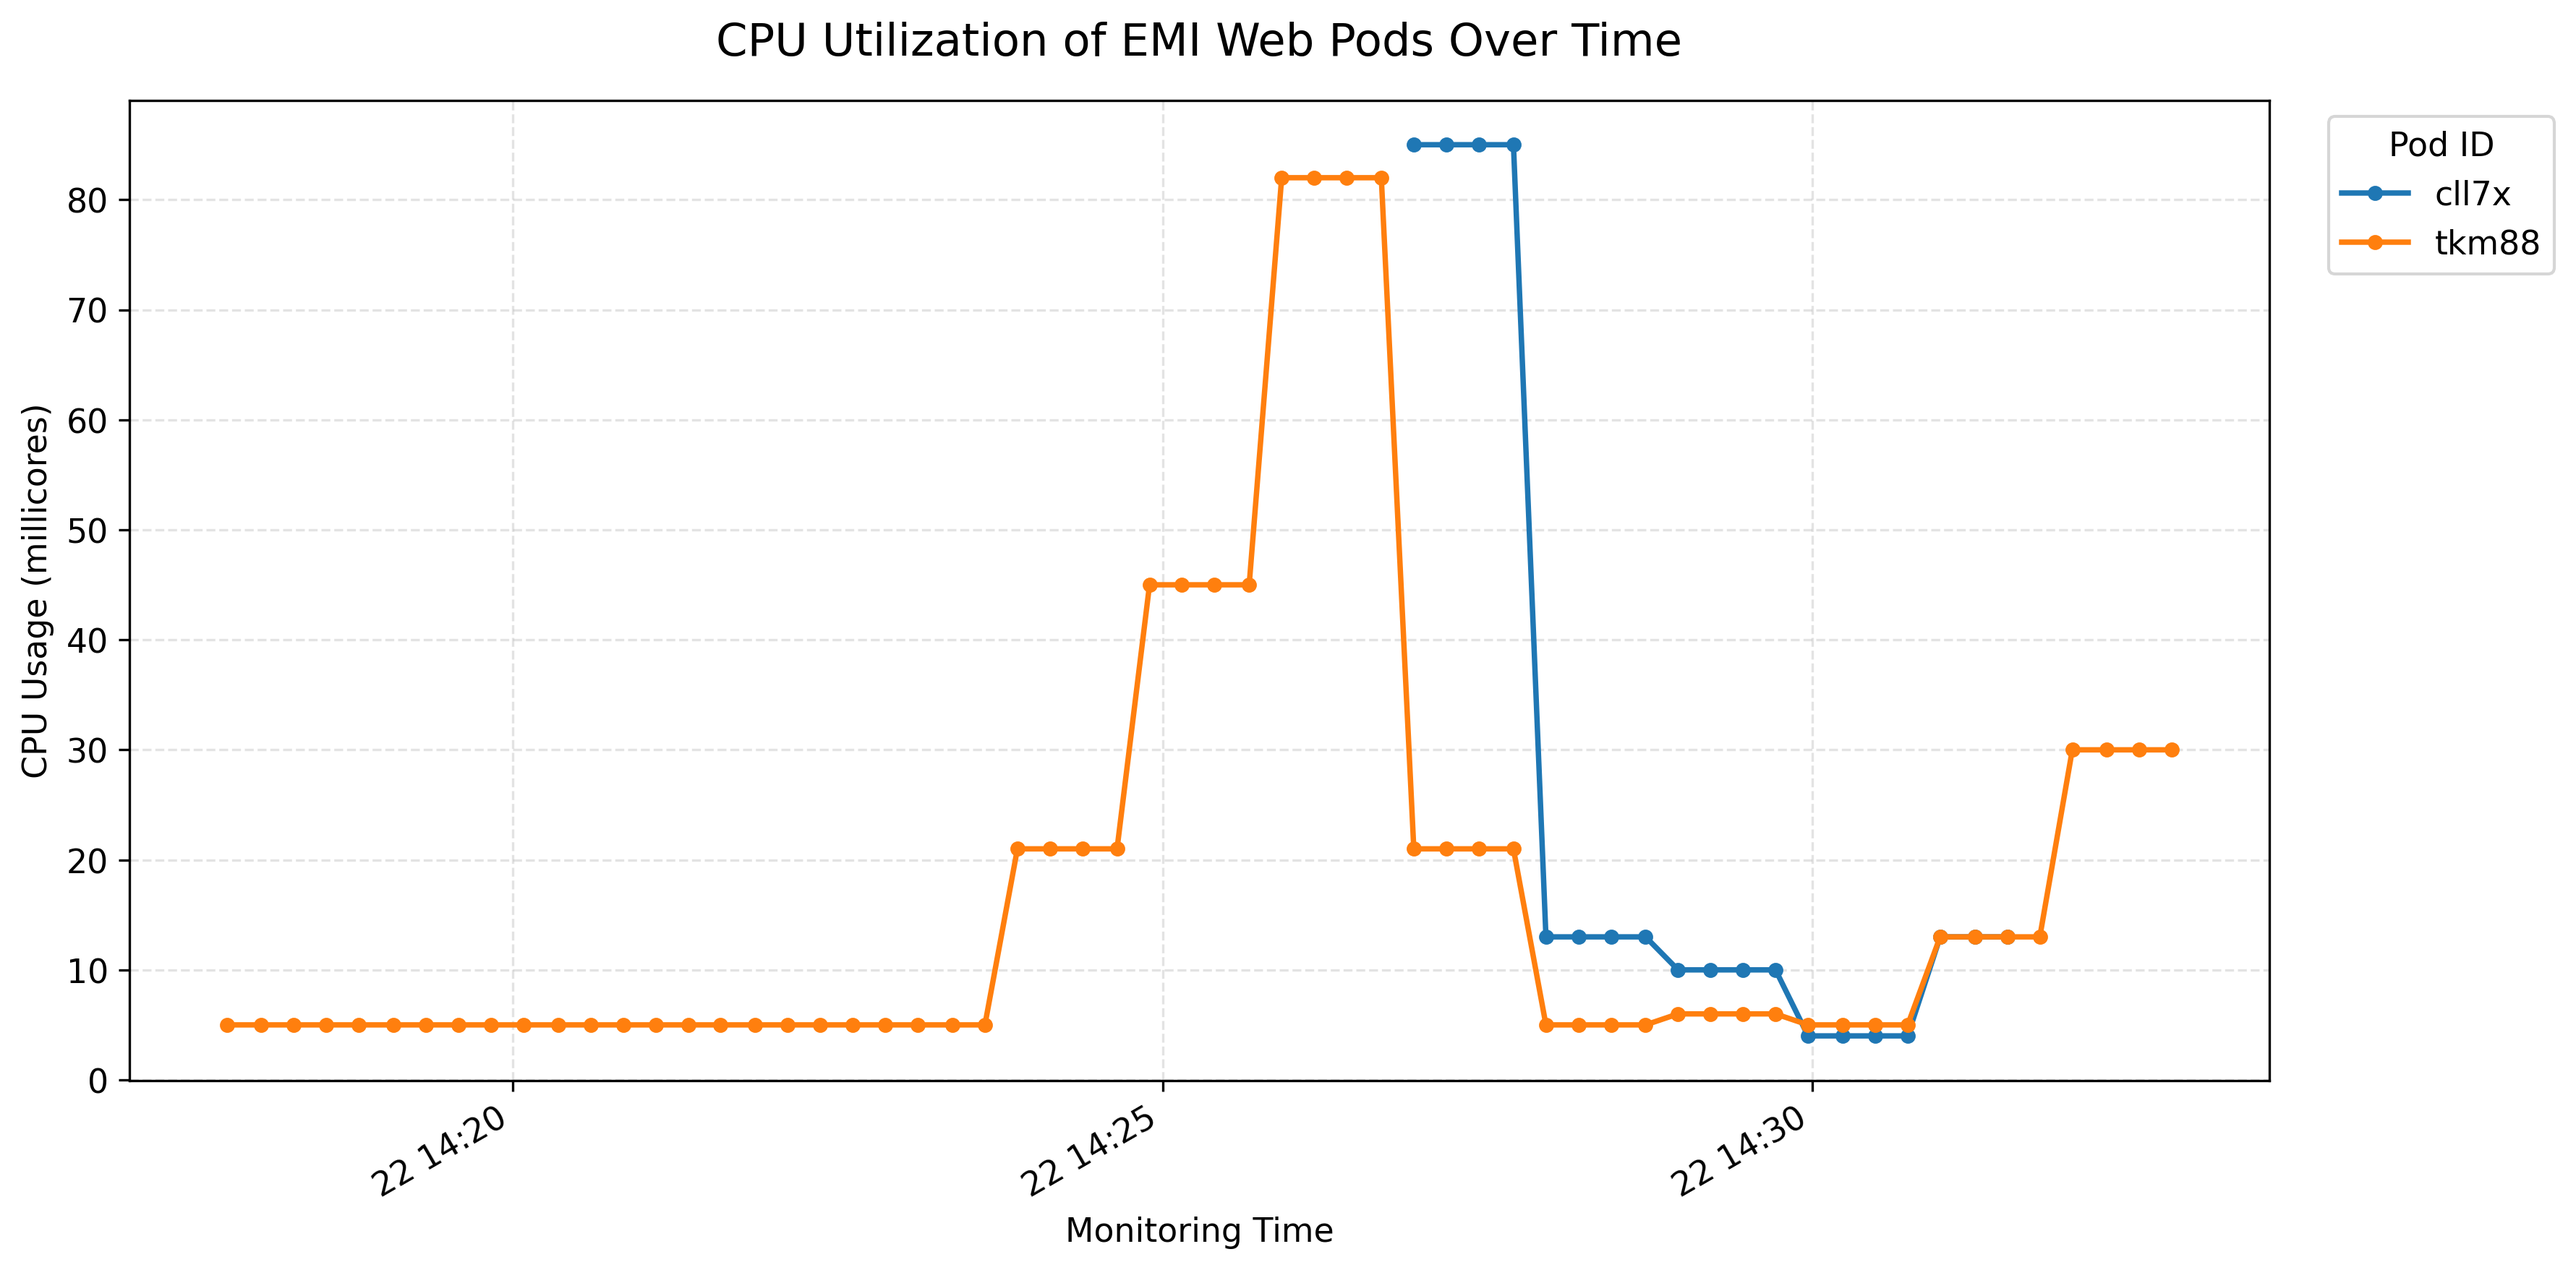
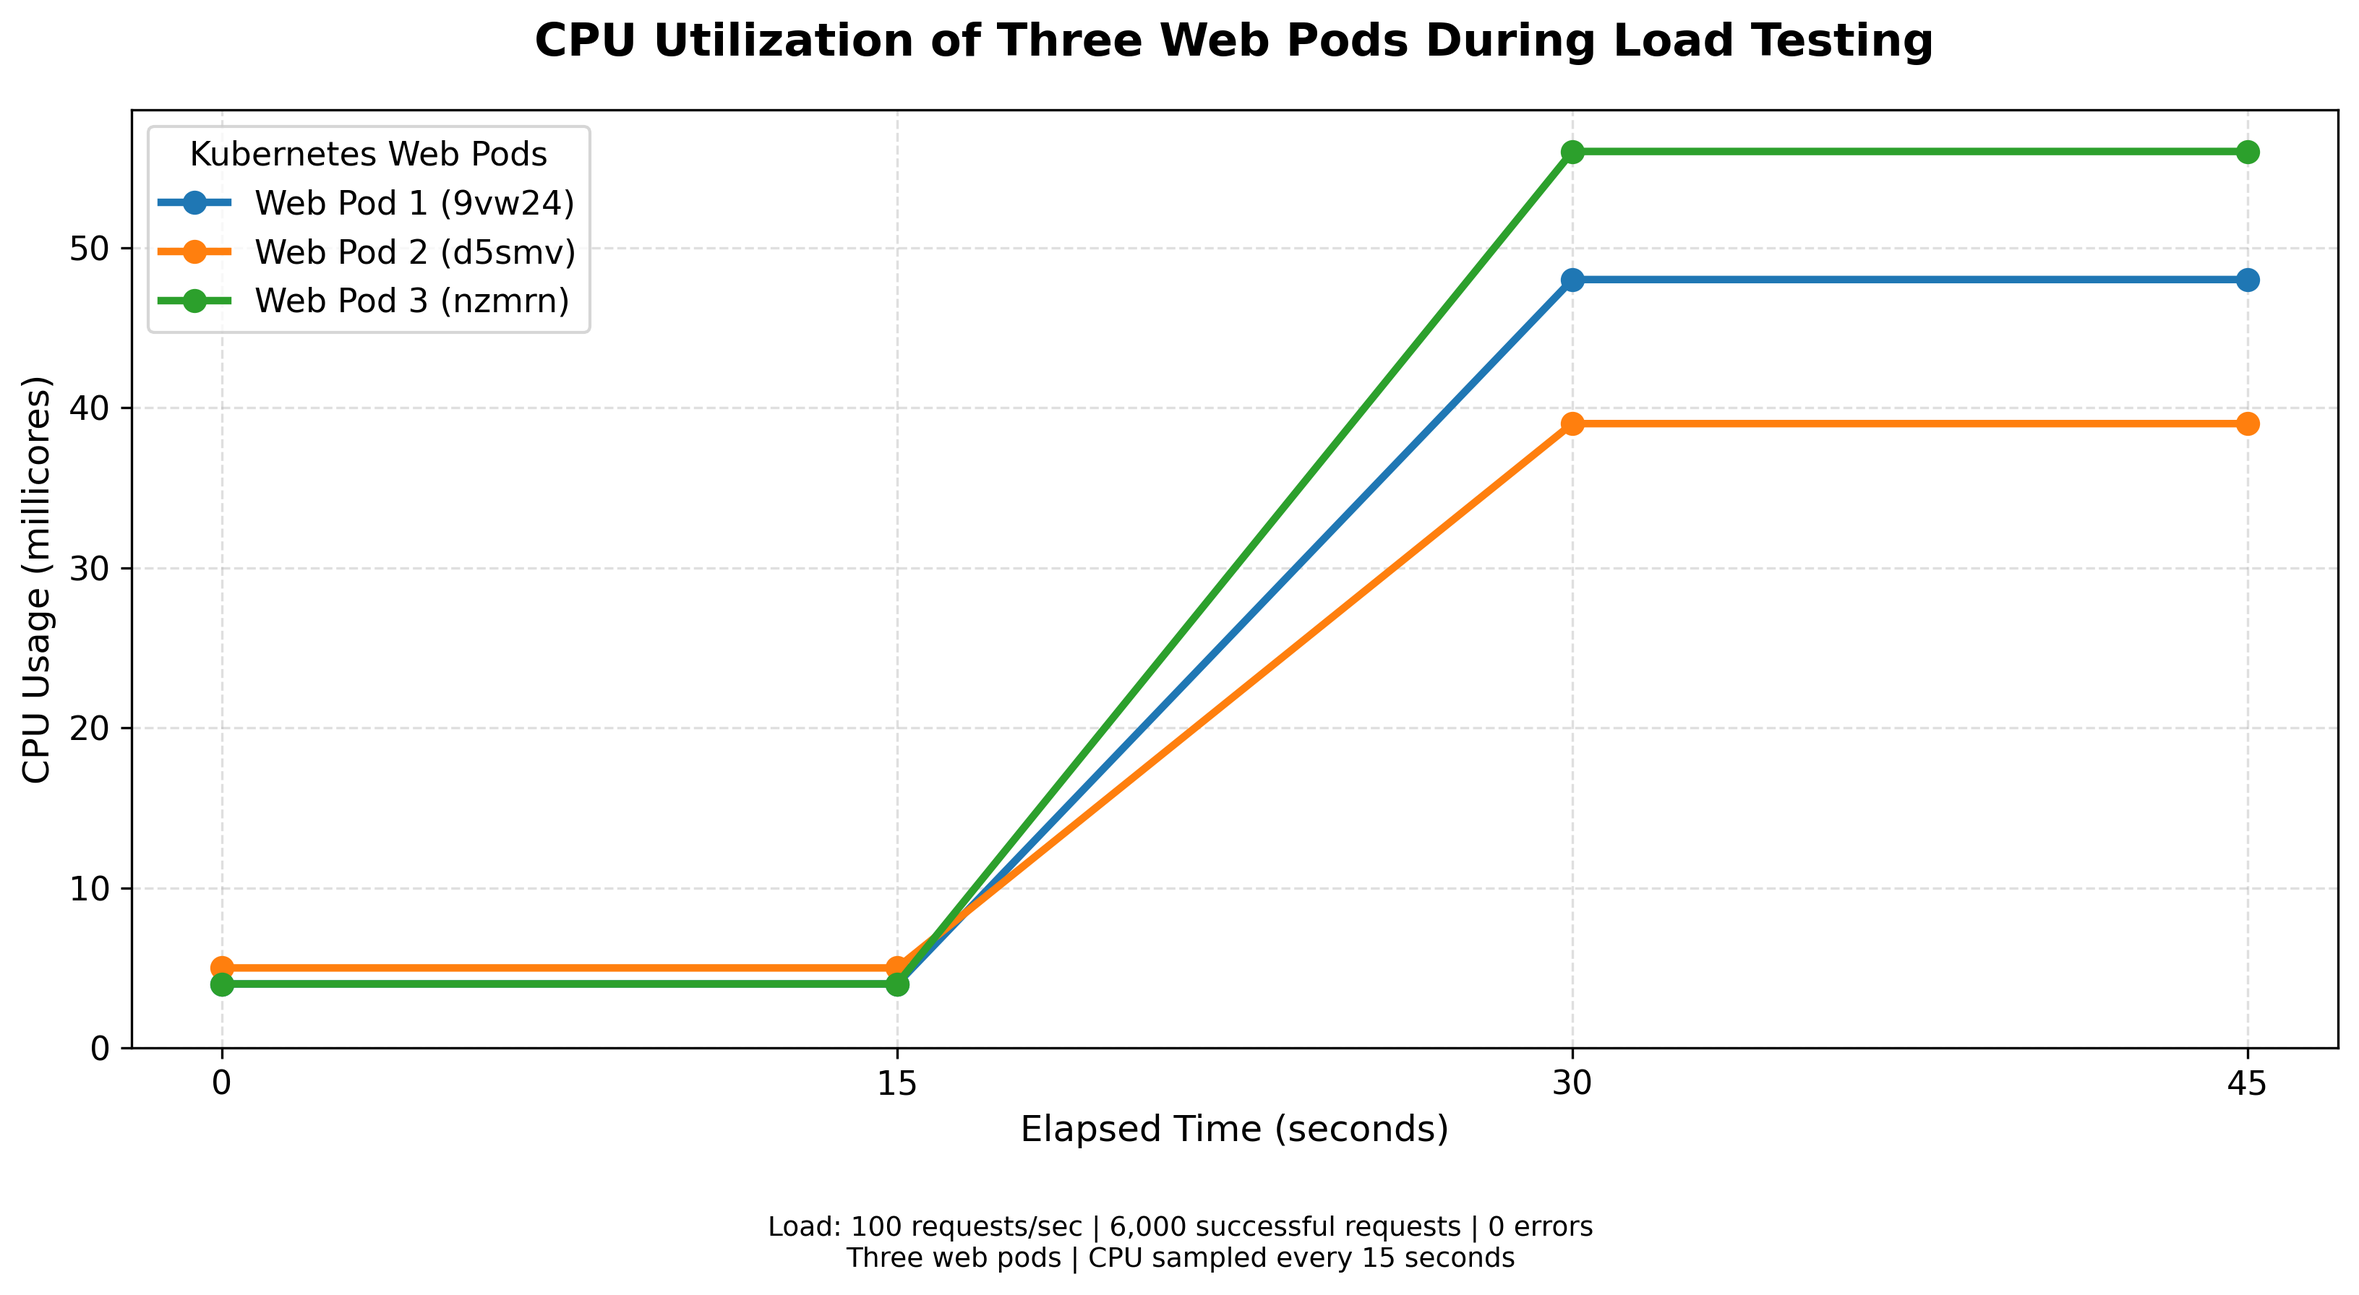
Add final autoscaling experiment and graphs

diff --git a/scripts/graph3_autoscaling_test.py b/scripts/graph3_autoscaling_test.py
@@ -1,0 +1,183 @@
+
+import requests
+import time
+import csv
+import os
+import json
+import threading
+import subprocess
+from datetime import datetime
+from concurrent.futures import (
+    ThreadPoolExecutor, wait, FIRST_COMPLETED
+)
+
+URL = "http://emi.local/api/emi"
+HEADERS = {"Content-Type": "application/json"}
+PAYLOAD = {"P": 500000, "rate": 12, "n": 24}
+
+OUTPUT = "results/graph3_autoscaling_retry2.csv"
+os.makedirs("results", exist_ok=True)
+
+phases = [
+    ("Low Load", 10, 120),
+    ("High Load", 100, 300),
+    ("Recovery", 10, 180)
+]
+
+local = threading.local()
+lock = threading.Lock()
+
+interval_success = 0
+interval_errors = 0
+
+
+def send_request():
+    global interval_success, interval_errors
+
+    if not hasattr(local, "session"):
+        local.session = requests.Session()
+
+    try:
+        response = local.session.post(
+            URL, headers=HEADERS,
+            json=PAYLOAD, timeout=20
+        )
+        success = response.status_code == 200
+    except Exception:
+        success = False
+
+    with lock:
+        if success:
+            interval_success += 1
+        else:
+            interval_errors += 1
+
+    return success
+
+
+def monitor(start):
+    global interval_success, interval_errors
+
+    with open(OUTPUT, "w", newline="") as f:
+        writer = csv.writer(f)
+        writer.writerow([
+            "timestamp", "elapsed_seconds", "stage",
+            "request_rate", "cpu_utilization_percent",
+            "replicas", "successful", "errors"
+        ])
+
+        next_sample = start
+
+        while next_sample <= start + 600:
+            delay = next_sample - time.monotonic()
+            if delay > 0:
+                time.sleep(delay)
+
+            elapsed = time.monotonic() - start
+
+            if elapsed < 120:
+                stage, rate = "Low Load", 10
+            elif elapsed < 420:
+                stage, rate = "High Load", 100
+            else:
+                stage, rate = "Recovery", 10
+
+            cpu, replicas = None, None
+
+            try:
+                result = subprocess.run(
+                    ["kubectl", "get", "hpa", "emi-web-hpa",
+                     "-n", "emi", "-o", "json"],
+                    capture_output=True,
+                    text=True,
+                    timeout=8,
+                    check=True
+                )
+
+                data = json.loads(result.stdout)
+                metrics = data.get("status", {}).get(
+                    "currentMetrics", []
+                )
+
+                for metric in metrics:
+                    if metric.get("resource", {}).get("name") == "cpu":
+                        cpu = metric["resource"]["current"].get(
+                            "averageUtilization"
+                        )
+
+                replicas = data.get("status", {}).get(
+                    "currentReplicas"
+                )
+
+            except Exception as e:
+                print("Monitoring warning:", e)
+
+            with lock:
+                success = interval_success
+                errors = interval_errors
+                interval_success = 0
+                interval_errors = 0
+
+            writer.writerow([
+                datetime.now().isoformat(),
+                round(elapsed, 1), stage, rate,
+                cpu, replicas, success, errors
+            ])
+            f.flush()
+
+            print(
+                f"{elapsed:6.1f}s | {stage:10} | "
+                f"CPU: {cpu}% | Replicas: {replicas}"
+            )
+
+            next_sample += 15
+
+
+start = time.monotonic()
+
+monitor_thread = threading.Thread(
+    target=monitor, args=(start,)
+)
+monitor_thread.start()
+
+phase_results = []
+
+try:
+    with ThreadPoolExecutor(max_workers=200) as executor:
+        pending = set()
+        phase_start = start
+
+        for stage, rate, duration in phases:
+            print(f"\n{stage}: {rate} req/s for {duration}s")
+
+            submitted = 0
+            for i in range(rate * duration):
+                scheduled = phase_start + i / rate
+
+                delay = scheduled - time.monotonic()
+                if delay > 0:
+                    time.sleep(delay)
+
+                while len(pending) >= 500:
+                    done, pending = wait(
+                        pending, return_when=FIRST_COMPLETED
+                    )
+
+                pending.add(executor.submit(send_request))
+                submitted += 1
+
+            phase_results.append((stage, submitted))
+            phase_start += duration
+
+        while pending:
+            done, pending = wait(
+                pending, return_when=FIRST_COMPLETED
+            )
+
+finally:
+    monitor_thread.join()
+
+print("\nTest finished.")
+print("Requests submitted per phase:", phase_results)
+print("Saved:", OUTPUT)
+print("Actual elapsed time:", round(time.monotonic() - start, 1))

diff --git a/scripts/fix_graph2.py b/scripts/fix_graph2.py
@@ -2,49 +2,75 @@
 import pandas as pd
 import matplotlib.pyplot as plt
 
-# Load pod monitoring data
-df = pd.read_csv("results/pod_metrics.csv")
+# Load actual three-pod monitoring readings
+df = pd.read_csv("results/graph2_pod_cpu.csv")
 
-# Keep only EMI web pods
-df = df[df["pod"].str.startswith("emi-web")].copy()
-
-df["timestamp"] = pd.to_datetime(df["timestamp"])
+# Convert CPU values from millicores to numbers
 df["cpu_millicores"] = (
     df["cpu"].str.replace("m", "", regex=False).astype(float)
 )
 
-df = df.sort_values("timestamp")
+# Plot settings
+plt.rcParams.update({
+    "font.size": 11,
+    "axes.titlesize": 15,
+    "axes.labelsize": 12
+})
 
-plt.rcParams.update({"font.size": 11})
+fig, ax = plt.subplots(figsize=(11, 6))
 
-fig, ax = plt.subplots(figsize=(12, 6), dpi=150)
+# Plot each actual web pod
+for i, (pod, data) in enumerate(df.groupby("pod"), start=1):
+    data = data.sort_values("elapsed_seconds")
 
-for pod, data in df.groupby("pod"):
     ax.plot(
-        data["timestamp"],
+        data["elapsed_seconds"],
         data["cpu_millicores"],
         marker="o",
-        markersize=4,
-        linewidth=1.8,
-        label=pod[-5:]
+        linewidth=2.5,
+        markersize=7,
+        label=f"Web Pod {i} ({pod[-5:]})"
     )
 
-ax.set_title("CPU Utilization of EMI Web Pods Over Time", fontsize=15, pad=15)
-ax.set_xlabel("Monitoring Time")
+# Labels and title
+ax.set_title(
+    "CPU Utilization of Three Web Pods During Load Testing",
+    pad=18,
+    fontweight="bold"
+)
+
+ax.set_xlabel("Elapsed Time (seconds)")
 ax.set_ylabel("CPU Usage (millicores)")
 
-ax.grid(True, linestyle="--", alpha=0.35)
-ax.legend(title="Pod ID", bbox_to_anchor=(1.02, 1), loc="upper left")
+# Actual sampling intervals
+ax.set_xticks([0, 15, 30, 45])
+ax.set_xlim(-2, 47)
+ax.set_ylim(bottom=0)
 
-fig.autofmt_xdate()
-plt.tight_layout()
+ax.grid(True, linestyle="--", alpha=0.4)
+ax.legend(title="Kubernetes Web Pods")
 
+# Experiment information
+fig.text(
+    0.5, 0.015,
+    "Load: 100 requests/sec | 6,000 successful requests | 0 errors\n"
+    "Three web pods | CPU sampled every 15 seconds",
+    ha="center",
+    fontsize=9
+)
+
+plt.tight_layout(rect=[0, 0.08, 1, 1])
+
+# Save graph
 plt.savefig(
     "results/graphs/graph2_pod_cpu.png",
     dpi=300,
     bbox_inches="tight"
 )
+
 plt.close()
 
-print("Improved Graph 2 saved successfully.")
-print("Web pod records plotted:", len(df))
+print("Graph 2 generated successfully!")
+print("Pods plotted:", df["pod"].nunique())
+print("Actual records plotted:", len(df))
+print("Saved: results/graphs/graph2_pod_cpu.png")

diff --git a/scripts/fix_graph3.py b/scripts/fix_graph3.py
@@ -1,0 +1,49 @@
+import pandas as pd
+import matplotlib.pyplot as plt
+import os
+
+df = pd.read_csv("results/graph3_autoscaling_retry2.csv")
+
+os.makedirs("results/graphs", exist_ok=True)
+
+time = df["elapsed_seconds"]
+fig, axes = plt.subplots(3, 1, figsize=(12, 9), sharex=True)
+
+# Graph 1: Request rate
+axes[0].step(time, df["request_rate"], where="post", linewidth=2)
+axes[0].set_ylabel("Request Rate\n(req/s)")
+axes[0].set_title("HPA Autoscaling Test: 10-Minute Load Pattern")
+axes[0].grid(True, alpha=0.3)
+
+# Graph 2: CPU utilization
+axes[1].plot(time, df["cpu_utilization_percent"],
+             marker="o", markersize=3, linewidth=2)
+axes[1].set_ylabel("Average CPU\nUtilization (%)")
+axes[1].grid(True, alpha=0.3)
+
+# Graph 3: Web replicas
+axes[2].step(time, df["replicas"], where="post",
+             marker="o", markersize=3, linewidth=2)
+axes[2].set_ylabel("Web Replicas")
+axes[2].set_xlabel("Elapsed Time (seconds)")
+axes[2].set_yticks(range(1, 6))
+axes[2].grid(True, alpha=0.3)
+
+# Mark phase transitions
+for ax in axes:
+    ax.axvline(120, linestyle="--", alpha=0.6)
+    ax.axvline(420, linestyle="--", alpha=0.6)
+    ax.set_xlim(0, 600)
+
+axes[0].text(60, 1.02, "Low Load", transform=axes[0].get_xaxis_transform(),
+             ha="center")
+axes[0].text(270, 1.02, "High Load", transform=axes[0].get_xaxis_transform(),
+             ha="center")
+axes[0].text(510, 1.02, "Recovery", transform=axes[0].get_xaxis_transform(),
+             ha="center")
+
+plt.tight_layout()
+plt.savefig("results/graphs/graph3_autoscaling.png",
+            dpi=300, bbox_inches="tight")
+print("Graph 3 saved: results/graphs/graph3_autoscaling.png")
+plt.show()

diff --git a/scripts/staged_load_test.py b/scripts/staged_load_test.py
@@ -12,7 +12,7 @@ PAYLOAD = {"P": 500000, "rate": 12, "n": 24}
 phases = [(10, 120), (100, 300), (10, 180)]
 os.makedirs("results", exist_ok=True)
 
-with open("results/hpa_load_test.csv", "w", newline="") as f:
+with open("results/hpa_load_test_retry.csv", "w", newline="") as f:
     writer = csv.writer(f)
     writer.writerow(["timestamp", "rate_req_sec", "duration_sec",
                      "total_requests", "successful", "errors"])
@@ -50,4 +50,4 @@ with open("results/hpa_load_test.csv", "w", newline="") as f:
         print(f"Completed: {success} successful | {errors} errors")
 
 print("\n10-minute staged load test completed.")
-print("Saved: results/hpa_load_test.csv")
+print("Saved: results/hpa_load_test_retry.csv")
